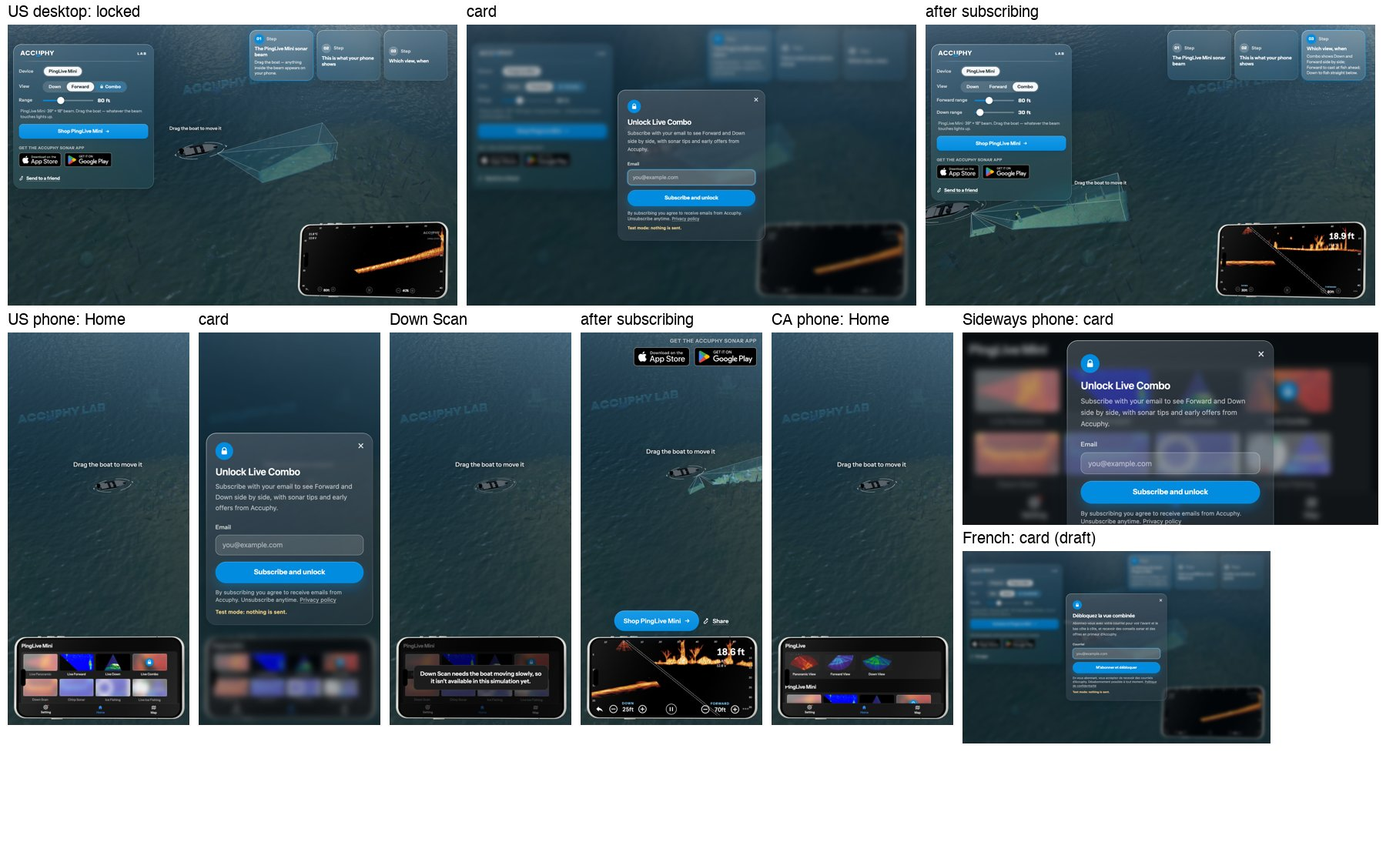
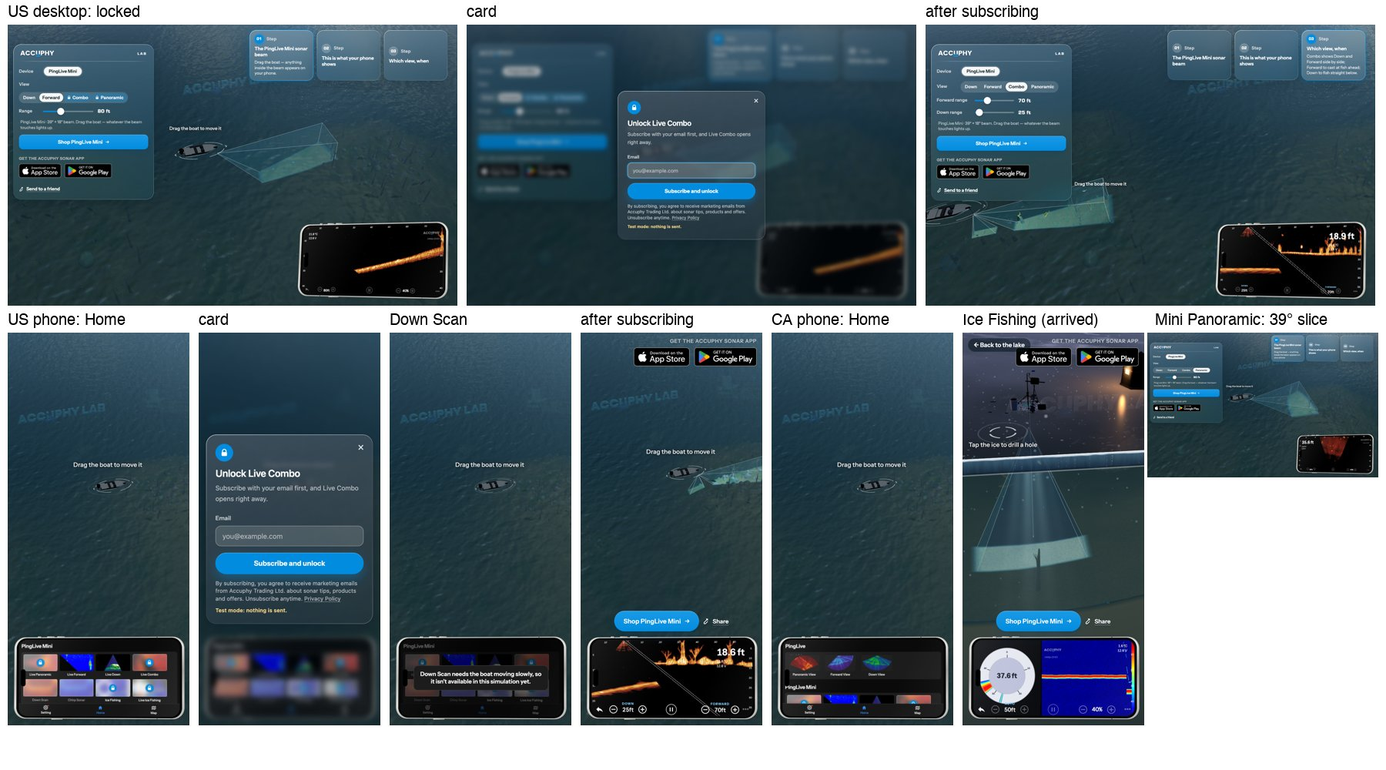
Subscribing opens every locked view: Mini Panoramic, Ice Fishing and Live Ice via the ice page and back; Klaviyo draft wording and properties (#191)

diff --git a/src/experiments/2026-09-23-sonar-lake-3d/index.jsx b/src/experiments/2026-09-23-sonar-lake-3d/index.jsx
@@ -10,9 +10,9 @@ import { COLORMAP_NAMES } from './colormaps'
 import SonarChrome from './SonarChrome'
 import { screenLayout } from './SonarScreen'
 import UnlockCard, { LockIcon } from './UnlockCard'
-import AppHome from './home/AppHome' // the app's Home (view selection) page inside the phone, phones only (2026-10-16)
+import AppHome, { isLocked } from './home/AppHome' // the app's Home (view selection) page inside the phone, phones only (2026-10-16)
 import { isSignedUp } from './signup'
-import { labEvent, miniOnly, PRODUCT, sentEvents } from './embed'
+import { iceUrl, labEvent, miniOnly, PRODUCT, sentEvents } from './embed'
 import ShopButton from './ShopButton' // the one link to the store (X-6L, 2026-10-25; placement B, Jason)
 import { t } from './i18n' // every visitor-visible string, English or French (?lang=fr; X-6L-fr)
 import ShareButton from './ShareButton'
@@ -24,6 +24,7 @@ import { panoHalfWidth } from './sonarMarks'
 const BIG_PHONE = import.meta.env.DEV && window.location.search.includes('bigphone')
 // Build variant (Jason 2026-10-16): VITE_DEVICES='PLM' makes a PingLive Mini-only page — no device switch, the
 // Mini is the device, the step presets use its views. Unset: both devices (the default Lab).
+const LOCKED_NAME = { combo: 'tile_live_combo', panoramic: 'tile_live_panoramic', ice: 'tile_ice' }
 const ONLY_ENV = import.meta.env.VITE_DEVICES === 'PLM' ? 'PLM' : null
 // Scene (Jason 2026-10-16: 做一个冰钓的版本): 'lake' = the boat; 'ice' = the frozen lake with the PingLive Mini in an auger hole
 // (IceCamp.jsx). The ice page is its own gallery entry (2026-10-16-sonar-ice-3d) and a build variant, VITE_SCENE=ice.
@@ -71,7 +72,7 @@ export default function SonarLake3D({ scene: sceneProp, lab }) {
   const ONLY = ICE || miniOnly() ? 'PLM' : ONLY_ENV // on the ice the Mini is the device: the app's ice views are the Mini's; the store's US market too (#190)
   const SHOWN_DEVICES = ONLY ? [DEVICES[ONLY]] : Object.values(DEVICES)
   const [deviceId, setDeviceId] = useState(ONLY || 'PL')
-  const [mode, setMode] = useState(ICE ? 'liveice' : 'forward')
+  const [mode, setMode] = useState(ICE ? (/[?&]view=ice\b/.test(window.location.search) && isSignedUp() ? 'ice' : 'liveice') : 'forward') // ?view=ice: the Ice Fishing tile from the lake (#191)
   const [view, setView] = useState(ICE ? iceParams().view : 'top') // ice page cameras: top / under the ice / section (docs/ice-relationship-study.md)
   // the ice page: the step cards stack under the control panel, so the ice band across the top stays open for taps
   const panelRef = useRef(null)
@@ -88,8 +89,8 @@ export default function SonarLake3D({ scene: sceneProp, lab }) {
   const devNum = (k) => (import.meta.env.DEV ? +((new RegExp(`[?&]${k}=([\\d.]+)`).exec(window.location.search) || [])[1] || NaN) : NaN)
   const [depthFt, setDepthFt] = useState(Number.isFinite(devNum('depth')) ? devNum('depth') : 70) // depth range (PL Forward; every PLM view) — driven by AUTO below
   const [autoDepth, setAutoDepth] = useState(!Number.isFinite(devNum('depth'))) // off only when the dev Depth slider is touched (or ?depth=)
-  const [unlock, setUnlock] = useState(null)       // the subscribe card is open: { d, source } of the Combo pick it holds (#191)
-  const [unlocked, setUnlocked] = useState(isSignedUp) // Combo opens after subscribing, remembered on this device (signup.js)
+  const [unlock, setUnlock] = useState(null)       // the subscribe card is open: { d, m, name, source } of the pick it holds, or { ice } (#191)
+  const [unlocked, setUnlocked] = useState(isSignedUp) // the locked views open after subscribing, remembered on this device (signup.js)
   // In-app browsers (BF funnel handoff 2026-10-26, item 3). (1) The 3D mounts one frame AFTER the page so the static cover
   // (#lab-cover, share build) is on screen while the scene builds; the cover fades after the lake's first frames.
   // (2) A lost WebGL context (Meta's browser drops it when memory is short) shows a tap-to-reload card instead of a frozen
@@ -164,7 +165,7 @@ export default function SonarLake3D({ scene: sceneProp, lab }) {
   useEffect(() => { document.body.classList.toggle('lab-land', land); return () => document.body.classList.remove('lab-land') }, [land])
 
   const device = DEVICES[deviceId]
-  const modes = ICE ? ICE_MODES : device.modes
+  const modes = ICE ? [...ICE_MODES, 'ice'] : deviceId === 'PLM' ? [...device.modes, 'panoramic'] : device.modes // the Mini's Panoramic: behind the subscribe card (#191)
   const maxFt = device.maxRangeFt
   useEffect(() => {
     if (!modes.includes(mode)) setMode(ICE ? 'liveice' : 'down')
@@ -277,13 +278,17 @@ export default function SonarLake3D({ scene: sceneProp, lab }) {
   // button, guide step), never for the default view on load (#139); `source` says where the pick came from
   const showView = (d, m, source) => { setDeviceId(d); setMode(m); labEvent('view', { view: m, product: PRODUCT[d] || PRODUCT.PLM, source }) }
   // every pick passes here, so nothing reaches Combo before subscribing (#191): the card opens and the view stays as it was
-  const pickView = (d, m, source) => {
-    if (m === 'combo' && !unlocked) { setUnlock({ d, source }); return false }
+  const pickView = (d, m, source, name) => {
+    if (isLocked(d, m) && !unlocked) { setUnlock({ d, m, source, name: name || t(LOCKED_NAME[m]) }); return false }
     showView(d, m, source); return true
   }
+  const goIce = (view) => { window.location.href = iceUrl(view) }
+  const onIce = (view, name) => { if (unlocked) goIce(view); else setUnlock({ d: 'PLM', m: view, ice: true, source: 'home', name }) }
   const onUnlocked = () => {
-    const { d, source } = unlock
-    setUnlocked(true); setUnlock(null); showView(d, 'combo', source)
+    const { d, m, ice, source } = unlock
+    setUnlocked(true); setUnlock(null)
+    if (ice) { goIce(m); return }
+    showView(d, m, source)
     if (source === 'home') { setHome(false); setStarted(true) }
   }
 
@@ -347,6 +352,7 @@ export default function SonarLake3D({ scene: sceneProp, lab }) {
       <div className="absolute inset-0 touch-none">
         {mount3d && !glLost && <LakeScene key={glKey} state={state} sonarRect={sonarRect} paused={paused} scene={scene} />}
       </div>
+      {ICE && /[?&]from=lake\b/.test(window.location.search) && <button type="button" className="ac-back-lake" onClick={() => window.history.back()}>← {t('back_to_lake')}</button>}
       {/* the store badges on phones (Jason 2026-10-28: store style, decision #185): top left over the lake, 40 px (Apple's minimum) */}
       {phone && !land && started && !home && <AppBadges height={40} className="absolute z-20 items-end" style={{ right: 12, top: 'calc(12px + env(safe-area-inset-top))' }} />}
       {glLost && (
@@ -367,10 +373,10 @@ export default function SonarLake3D({ scene: sceneProp, lab }) {
         </div>
         <div className="ac-divider" />
         <Row label={t('device')}>
-          <div className="ac-seg">{SHOWN_DEVICES.map((d) => <button key={d.id} className={`ac-btn ${deviceId === d.id ? 'is-active' : ''}`} onClick={() => pickView(d.id, mode, 'panel')}>{d.name}</button>)}</div>
+          <div className="ac-seg">{SHOWN_DEVICES.map((d) => <button key={d.id} className={`ac-btn ${deviceId === d.id ? 'is-active' : ''}`} onClick={() => pickView(d.id, isLocked(d.id, mode) && !unlocked ? 'down' : mode, 'panel')}>{d.name}</button>)}</div>
         </Row>
         <Row label={t('view')}>
-          <div className="ac-seg">{modes.map((m) => { const locked = m === 'combo' && !unlocked; return <button key={m} className={`ac-btn ${mode === m ? 'is-active' : ''} ${locked ? 'is-locked' : ''}`} aria-label={locked ? t('unlock_locked') : undefined} onClick={() => pickView(deviceId, m, 'panel')}>{locked && <LockIcon />}{t('mode_' + m)}</button> })}</div>
+          <div className={`ac-seg ${modes.length > 3 ? 'ac-seg-tight' : ''}`}>{modes.map((m) => { const locked = isLocked(deviceId, m) && !unlocked; return <button key={m} className={`ac-btn ${mode === m ? 'is-active' : ''} ${locked ? 'is-locked' : ''}`} aria-label={locked ? t('unlock_locked', { view: t(LOCKED_NAME[m]) }) : undefined} onClick={() => pickView(deviceId, m, 'panel')}>{locked && <LockIcon />}{t('mode_' + m)}</button> })}</div>
         </Row>
         {ICE && (
           <Row label={t('camera')}>
@@ -454,7 +460,7 @@ export default function SonarLake3D({ scene: sceneProp, lab }) {
               phone is the device), or, with the lake enlarged, a small sonar box top-right that taps back */}
           <div ref={(el) => { sonarRect.current.el = el }} style={land ? (lakeBig ? { ...LAND_SMALL, height: `${(34 / landAspect).toFixed(2)}vw` } : LAND_FULL) : { position: 'absolute', inset: '2.6%', borderRadius: '5.4% / 11.3%', containerType: 'size', overflow: 'hidden' }}>
             <SonarChrome layout={layout} deviceId={deviceId} mode={mode} rangeFt={effRangeFt} depthFt={depthFt} imperial={imperial} gain={gain} autoDepth={autoDepth} autoRange={downLike} onRange={phone ? stepRange : undefined} combo={combo ? { fwdFt: comboFwd, downFt: comboDown, onFwd: phone ? stepComboFwd : undefined, onDown: phone ? stepComboDown : undefined, fwdLabel: t('combo_fwd'), downLabel: t('combo_down') } : undefined} onHome={phone ? () => { setHome(true); setLakeBig(false) } : undefined} phone={phone && !land} noMark={land && !lakeBig && !home && started} waterTempC={ICE ? 1.6 : 21.8} app={appCtl} onLocked={phone ? undefined : onLocked} depthRef={(el) => { state.current.depthEl = el }} />
-            {phone && home && <AppHome ice={ICE} devices={SHOWN_DEVICES} deviceId={started ? deviceId : null} mode={started ? mode : null} comboLocked={!unlocked} onPick={(d, m) => { if (pickView(d, m, 'home')) { setHome(false); setStarted(true) } }} />}
+            {phone && home && <AppHome ice={ICE} devices={SHOWN_DEVICES} deviceId={started ? deviceId : null} mode={started ? mode : null} locked={!unlocked} onIce={onIce} onPick={(d, m, name) => { if (pickView(d, m, 'home', name)) { setHome(false); setStarted(true) } }} />}
             {/* sideways: the lake inset (drawn by SonarScreen.jsx into this button's rectangle); a tap swaps lake and sonar.
                 Top-right, clear of the rulers and the depth-range −/+; Combo keeps its readout top-right, so there top-left */}
             {land && !lakeBig && !home && started && (
@@ -526,7 +532,7 @@ export default function SonarLake3D({ scene: sceneProp, lab }) {
         <pre ref={(el) => { state.current.debugEl = el }} className="pointer-events-none absolute left-2 top-1/2 rounded bg-black/60 p-1 text-[10px] text-lime-300" />
       )}
     </main>
-    {unlock && <UnlockCard product={PRODUCT[unlock.d] || PRODUCT.PLM} view="combo" onClose={() => setUnlock(null)} onDone={onUnlocked} />}
+    {unlock && <UnlockCard name={unlock.name} product={PRODUCT[unlock.d] || PRODUCT.PLM} view={unlock.m} onClose={() => setUnlock(null)} onDone={onUnlocked} />}
     </>
   )
 }

diff --git a/src/experiments/2026-09-23-sonar-lake-3d/home/AppHome.jsx b/src/experiments/2026-09-23-sonar-lake-3d/home/AppHome.jsx
@@ -32,19 +32,20 @@ const SECTIONS = {
     { mode: 'down', label: t('tile_down'), img: plDown, fan: true },
   ] },
   PLM: { title: 'PingLive Mini', tiles: [
-    { label: t('tile_live_panoramic'), img: plmPanoramic },
+    { id: 'pano', label: t('tile_live_panoramic'), img: plmPanoramic },
     { mode: 'forward', label: t('tile_live_forward'), img: plmForward },
     { mode: 'down', label: t('tile_live_down'), img: plmDown },
     { mode: 'combo', label: t('tile_live_combo'), img: plmCombo }, // in the Mini's row, not a separate Combo section (Jason 2026-10-23: 不要单独再放一栏了 这样人家搞不懂)
     { label: t('tile_downscan'), img: plmDownscan, moving: true }, // needs a slowly moving boat, not simulated (#191)
     { label: t('tile_chirp'), img: plmChirp, moving: true },
-    { label: t('tile_ice'), img: plmIceFishing }, // frosted: Jason 2026-10-23 keeps only Live Ice Fishing, Live Forward, Live Down, Live Combo
+    { id: 'ice', label: t('tile_ice'), img: plmIceFishing }, // frosted: Jason 2026-10-23 keeps only Live Ice Fishing, Live Forward, Live Down, Live Combo
     { id: 'liveice', label: t('tile_live_ice'), img: plmLiveIce }, // frosted on the lake page (its link to the ice page never worked in public builds; Jason 2026-10-24: 去掉); a view on the ice page
   ] },
 }
 
 const BLUE = '#2f8fff'
-const unlockLabel = t('unlock_locked')
+export const isLocked = (d, m) => m === 'combo' || m === 'ice' || (d === 'PLM' && m === 'panoramic') // the views behind the subscribe card (#191)
+const unlockLabel = (view) => t('unlock_locked', { view })
 const movingText = (view) => t('na_moving', { view })
 function Icon({ name, active }) {
   const c = active ? BLUE : '#fff'
@@ -63,11 +64,17 @@ function Tab({ label, icon, active }) {
   )
 }
 
-export default function AppHome({ devices, deviceId, mode, onPick, ice = false, comboLocked = false }) {
+export default function AppHome({ devices, deviceId, mode, onPick, onIce, ice = false, locked: lockOn = false }) {
   // on the ice page the back button opens this Home too (2026-10-23): Live Ice Fishing is a view of this page there,
   // not a link to it
   const sections = devices.map((d) => ({ id: d.id, ...SECTIONS[d.id] })).filter((s) => s.tiles)
-    .map((sec) => (ice ? { ...sec, tiles: sec.tiles.map((tile) => (tile.id === 'liveice' ? { ...tile, mode: 'liveice' } : tile)) } : sec))
+    .map((sec) => ({ ...sec, tiles: sec.tiles.map((tile) => {
+      // all unlocked by subscribing (#191, Jason 2026-10-30: "订阅就打开"); on the lake the two ice tiles lead to the ice page
+      if (tile.id === 'pano') return ice ? tile : { ...tile, mode: 'panoramic' }
+      if (tile.id === 'ice') return ice ? { ...tile, mode: 'ice' } : { ...tile, toIce: 'ice' }
+      if (tile.id === 'liveice') return ice ? { ...tile, mode: 'liveice' } : { ...tile, toIce: 'liveice' }
+      return tile
+    }) }))
   const [toast, setToast] = useState('')
   const [moving, setMoving] = useState('') // the tile's name while its big notice is up; a tap closes it (#191)
   const toastT = useRef(0)
@@ -83,12 +90,12 @@ export default function AppHome({ devices, deviceId, mode, onPick, ice = false, 
             <div style={{ background: '#1c1c1c', borderRadius: '3cqh', padding: '3cqh', display: 'flex', flexWrap: 'wrap', gap: '3cqh' }}>
               {sec.tiles.map((t) => {
                 const dev = t.device || sec.id
-                const live = !!t.mode
+                const live = !!t.mode || !!t.toIce
                 const active = live && dev === deviceId && t.mode === mode
-                const locked = comboLocked && t.mode === 'combo' // frosted with a lock: a tap opens the subscribe card (#191)
-                const onClick = live ? () => onPick(dev, t.mode) : t.moving ? () => setMoving(t.label) : notAvailable
+                const locked = lockOn && (t.toIce || (live && isLocked(dev, t.mode))) // frosted with a lock: a tap opens the subscribe card (#191)
+                const onClick = t.toIce ? () => onIce(t.toIce, t.label) : live ? () => onPick(dev, t.mode, t.label) : t.moving ? () => setMoving(t.label) : notAvailable
                 return (
-                  <button key={t.label} type="button" className={`ph-tile ${live ? '' : 'is-off'}`} onClick={onClick} aria-label={locked ? unlockLabel : t.label} aria-current={active || undefined} aria-disabled={live ? undefined : 'true'} style={{ flex: '0 0 44cqh', textAlign: 'center' }}>
+                  <button key={t.label} type="button" className={`ph-tile ${live ? '' : 'is-off'}`} onClick={onClick} aria-label={locked ? unlockLabel(t.label) : t.label} aria-current={active || undefined} aria-disabled={live ? undefined : 'true'} style={{ flex: '0 0 44cqh', textAlign: 'center' }}>
                     <span style={{ position: 'relative', display: 'block', borderRadius: t.fan ? 0 : '1.8cqh', overflow: 'hidden', boxShadow: active && !t.fan ? `0 0 0 0.6cqh ${BLUE}` : 'none' }}>
                       <img src={t.img} alt="" draggable={false} loading="lazy" decoding="async" style={{ display: 'block', width: '100%', height: '22cqh', objectFit: t.fan ? 'contain' : 'cover' }} />
                       {(!live || locked) && <span className="ph-frost" aria-hidden="true" />}

diff --git a/src/experiments/2026-09-23-sonar-lake-3d/UnlockCard.jsx b/src/experiments/2026-09-23-sonar-lake-3d/UnlockCard.jsx
@@ -1,19 +1,21 @@
-// The subscribe card that unlocks Live Combo (#191; Jason 2026-10-30: "把live combo给blur了吧 … 订阅以后可以全部给看"). Replaces the
+// The subscribe card that unlocks the locked views (#191; Jason 2026-10-30: "把live combo给blur了吧 … 订阅以后可以全部给看"). Replaces the
 // old sign-up gate (2026-09-24): this card can be closed (×, Esc, a tap outside) and the visitor stays on the view they had; the
-// lake keeps running behind it. Success opens Combo at once; this device remembers it (signup.js).
+// lake keeps running behind it. Success says so for a moment, then opens the view; this device remembers it (signup.js).
 import { useEffect, useRef, useState } from 'react'
 import { motion } from 'framer-motion'
 import { submitSignup, isEmail, signupTestMode } from './signup'
 import { labEvent } from './embed'
-import { t } from './i18n'
+import { t, LANG } from './i18n'
 
 export function LockIcon({ size = 11, style }) {
   return <svg viewBox="0 0 16 16" width={size} height={size} aria-hidden="true" style={style}><path d="M4.5 7V5a3.5 3.5 0 0 1 7 0v2" fill="none" stroke="currentColor" strokeWidth="1.7" strokeLinecap="round" /><rect x="2.8" y="6.8" width="10.4" height="7.6" rx="1.8" fill="currentColor" /></svg>
 }
 
-export default function UnlockCard({ product, view, onClose, onDone }) {
+const DONE_MS = 1100
+
+export default function UnlockCard({ name, product, view, onClose, onDone }) {
   const [email, setEmail] = useState('')
-  const [status, setStatus] = useState('idle') // idle | sending | error
+  const [status, setStatus] = useState('idle') // idle | sending | error | done
   const [error, setError] = useState('')
   const input = useRef(null)
   useEffect(() => {
@@ -28,7 +30,7 @@ export default function UnlockCard({ product, view, onClose, onDone }) {
     e.preventDefault()
     if (!isEmail(email)) { setStatus('error'); setError(t('unlock_err_email')); return }
     setStatus('sending'); setError('')
-    try { await submitSignup({ email }); labEvent('signup', { source: 'combo', product, view }, { once: true }) /* never the email: the iframe message goes to '*' */; onDone() } catch (err) { setStatus('error'); setError(t(err.message === 'not_ready' ? 'unlock_err_closed' : 'unlock_err_send')) }
+    try { await submitSignup({ email, language: LANG }); labEvent('signup', { source: 'unlock', product, view }, { once: true }) /* never the email: the iframe message goes to '*' */; setStatus('done'); setTimeout(onDone, DONE_MS) } catch (err) { setStatus('error'); setError(t(err.message === 'not_ready' ? 'unlock_err_closed' : 'unlock_err_send')) }
   }
 
   return (
@@ -37,8 +39,9 @@ export default function UnlockCard({ product, view, onClose, onDone }) {
         className="ac-panel relative m-auto w-full max-w-[420px] p-5 text-white sm:p-7">
         <button type="button" className="ac-unlock-x" aria-label={t('share_close')} onClick={onClose}>×</button>
         <div className="ac-unlock-badge"><LockIcon size={18} /></div>
-        <h2 id="unlock-title" className="mt-3 pr-6 text-[21px] font-semibold leading-tight tracking-[-0.01em]">{t('unlock_title')}</h2>
-        <p className="ac-soft mt-2 text-[14px] leading-relaxed">{t('unlock_text')}</p>
+        <h2 id="unlock-title" className="mt-3 pr-6 text-[21px] font-semibold leading-tight tracking-[-0.01em]">{status === 'done' ? t('unlock_done', { view: name }) : t('unlock_title', { view: name })}</h2>
+        {status !== 'done' && <>
+        <p className="ac-soft mt-2 text-[14px] leading-relaxed">{t('unlock_text', { view: name })}</p>
         <label className="mt-4 block">
           <span className="ac-label">{t('unlock_email')}</span>
           <input ref={input} type="email" inputMode="email" autoComplete="email" required value={email} onChange={(e) => { setEmail(e.target.value); if (status === 'error') setStatus('idle') }}
@@ -51,6 +54,7 @@ export default function UnlockCard({ product, view, onClose, onDone }) {
           <a href="https://shop.accuphy.com/policies/privacy-policy" target="_blank" rel="noreferrer" className="underline decoration-white/40 underline-offset-2 hover:decoration-white">{t('unlock_privacy')}</a>
         </p>
         {signupTestMode() && <p className="mt-2 text-[11.5px] font-semibold text-[#ffd98a]">Test mode: nothing is sent.</p>}
+        </>}
       </motion.form>
     </div>
   )

diff --git a/src/experiments/2026-09-23-sonar-lake-3d/i18n.js b/src/experiments/2026-09-23-sonar-lake-3d/i18n.js
@@ -89,18 +89,20 @@ const S = {
   tab_setting: { en: 'Setting', fr: 'Paramètres' },
   tab_home: { en: 'Home', fr: 'Accueil' },
   tab_map: { en: 'Map', fr: 'Map' },
-  not_available: { en: 'Not available in this simulation yet.', fr: 'Pas encore disponible dans cette simulation.' }, // FR: for the website's review (#191)
+  not_available: { en: 'Not available in this simulation yet.', fr: 'Pas encore disponible dans cette simulation.' }, // FR: for the website's review (#191); only Live Panoramic on the ice page now
   // {view} is the tile's name (#191, Jason 2026-10-30)
   na_moving: { en: '{view} needs the boat moving slowly, so it isn’t available in this simulation yet.', fr: '{view} exige que le bateau avance lentement : cette vue n’est donc pas encore disponible dans cette simulation.' },
-  // the subscribe card (#191). unlock_consent is a PLACEHOLDER: Klaviyo is settling the wording. All FR here: drafts for the website's review
-  unlock_title: { en: 'Unlock Live Combo', fr: 'Débloquez la vue combinée' },
-  unlock_locked: { en: 'Combo, locked: subscribe to unlock', fr: 'Vue combinée verrouillée : abonnez-vous pour la débloquer' },
-  unlock_text: { en: 'Subscribe with your email to see Forward and Down side by side, with sonar tips and early offers from Accuphy.', fr: 'Abonnez-vous avec votre courriel pour voir l’avant et le bas côte à côte, et recevoir des conseils sonar et des offres en primeur d’Accuphy.' },
+  // the subscribe card (#191). {view} is the tile's name. unlock_consent, unlock_done: Klaviyo HQ's draft, Jason has not seen it. All FR here: drafts for the website's review
+  unlock_title: { en: 'Unlock {view}', fr: 'Débloquez : {view}' },
+  unlock_locked: { en: '{view}, locked: subscribe to unlock', fr: '{view}, verrouillée : abonnez-vous pour débloquer' },
+  unlock_text: { en: 'Subscribe with your email first, and {view} opens right away.', fr: 'Abonnez-vous d’abord avec votre courriel, et {view} s’ouvre aussitôt.' },
+  unlock_done: { en: 'You’re in. {view} is unlocked.', fr: 'C’est fait. {view} est débloquée.' },
+  back_to_lake: { en: 'Back to the lake', fr: 'Retour au lac' },
   unlock_email: { en: 'Email', fr: 'Courriel' },
   unlock_cta: { en: 'Subscribe and unlock', fr: 'M’abonner et débloquer' },
   unlock_sending: { en: 'Subscribing…', fr: 'Abonnement en cours…' },
-  unlock_consent: { en: 'By subscribing you agree to receive emails from Accuphy. Unsubscribe anytime.', fr: 'En vous abonnant, vous acceptez de recevoir des courriels d’Accuphy. Désabonnement possible à tout moment.' },
-  unlock_privacy: { en: 'Privacy policy', fr: 'Politique de confidentialité' },
+  unlock_consent: { en: 'By subscribing, you agree to receive marketing emails from Accuphy Trading Ltd. about sonar tips, products and offers. Unsubscribe anytime.', fr: 'En vous abonnant, vous acceptez de recevoir des courriels de marketing d’Accuphy Trading Ltd. sur des conseils sonar, des produits et des offres. Désabonnement possible à tout moment.' },
+  unlock_privacy: { en: 'Privacy Policy', fr: 'Politique de confidentialité' },
   unlock_err_email: { en: 'Please enter a valid email address.', fr: 'Veuillez entrer une adresse courriel valide.' },
   unlock_err_send: { en: 'Something went wrong. Please try again.', fr: 'Une erreur est survenue. Veuillez réessayer.' },
   unlock_err_closed: { en: 'Subscribing isn’t open yet. Please try again later.', fr: 'L’abonnement n’est pas encore ouvert. Veuillez réessayer plus tard.' },

diff --git a/src/experiments/2026-09-23-sonar-lake-3d/signup.js b/src/experiments/2026-09-23-sonar-lake-3d/signup.js
@@ -11,7 +11,7 @@ export const KLAVIYO = {
   revision: '2026-07-15', // Klaviyo API revision (each is supported ~2 years; bump when Klaviyo retires it)
 }
 
-// The consent sent with each sign-up: change it here when Klaviyo settles the wording and the consent type (#191).
+// The consent sent with each sign-up (#191). SUBSCRIBED is the only value Klaviyo's client endpoint takes.
 const CONSENT = 'SUBSCRIBED'
 
 // listId must be W24Qdc before lab.accuphy.ca goes live with the Combo lock (#191, docs/versions.md). Until it is set nothing is
@@ -33,7 +33,7 @@ function rememberSignedUp() {
 
 export const isEmail = (s) => /^[^\s@]+@[^\s@]+\.[^\s@]{2,}$/.test(String(s).trim())
 
-export async function submitSignup({ email, source = 'Accuphy Lab' }) {
+export async function submitSignup({ email, language = 'en', source = 'Accuphy Lab' }) {
   const addr = String(email).trim()
   if (!isEmail(addr)) throw new Error('bad_email')
   if (!signupReady() && onLiveHost()) throw new Error('not_ready')
@@ -48,7 +48,7 @@ export async function submitSignup({ email, source = 'Accuphy Lab' }) {
             custom_source: source,
             profile: { data: { type: 'profile', attributes: {
               email: addr,
-              properties: { signup_page: 'accuphy-lab' },
+              properties: { signup_page: 'accuphy-lab', signup_channel: 'lab_unlock', signup_language: language },
               subscriptions: { email: { marketing: { consent: CONSENT } } }, // the list's single/double opt-in setting still applies
             } } },
           },

diff --git a/src/index.css b/src/index.css
@@ -48,6 +48,8 @@
 .ac-btn:hover { background: rgba(255,255,255,0.12); }
 .ac-btn.is-locked { display: inline-flex; align-items: center; gap: 5px; color: #fff; background: rgba(2,140,223,0.34); }
 .ac-btn.is-locked:hover { background: rgba(2,140,223,0.55); }
+.ac-seg-tight .ac-btn { padding: 6px 9px; }
+.ac-back-lake { position: absolute; z-index: 30; left: 12px; top: calc(12px + env(safe-area-inset-top)); padding: 8px 12px; border: 0; border-radius: 999px; font: 600 13px/1 'Instrument Sans', system-ui, sans-serif; color: #fff; background: rgba(3,18,26,0.55); cursor: pointer; }
 .ac-unlock-x { position: absolute; top: 8px; right: 8px; width: 36px; height: 36px; border: 0; border-radius: 50%; background: none; color: rgba(255,255,255,0.85); font-size: 22px; line-height: 1; cursor: pointer; }
 .ac-unlock-x:hover { background: rgba(255,255,255,0.14); }
 .ac-unlock-badge { width: 38px; height: 38px; display: flex; align-items: center; justify-content: center; border-radius: 50%; color: #fff; background: var(--accuphy-blue); }

diff --git a/src/experiments/2026-09-23-sonar-lake-3d/embed.js b/src/experiments/2026-09-23-sonar-lake-3d/embed.js
@@ -97,6 +97,16 @@ export function inStore() {
 // big PingLive is not sold there until 2027-02 (website #226). Inside the store only — the Lab opened on its own never changes.
 export function miniOnly() { return inStore() && shareMarket() === 'us' }
 
+// The ice page from the lake (#191): same address parameters (market, shop, lang), inside the iframe too; `from=lake` shows the way back.
+// Theme-mounted there is no /ice/ on the store: the same page reloads with scene=ice.
+export function iceUrl(view) {
+  const u = new URL(window.location.href)
+  if (isEmbedded() || !inStore()) u.pathname = u.pathname.replace(/(mini|ice)\/?(index\.html)?$/, '').replace(/\/?$/, '/') + 'ice/'
+  else u.searchParams.set('scene', 'ice')
+  u.searchParams.set('from', 'lake'); u.searchParams.set('view', view)
+  return u.href
+}
+
 export function shopUrl(deviceId) {
   const product = PRODUCT[deviceId] || PRODUCT.PLM
   const root = shopRoot()

diff --git a/docs/decisions.md b/docs/decisions.md
@@ -3364,14 +3364,27 @@ Numbered log. Newest at the bottom.
      - **Guide:** step 1 "The {device} sonar beam" / "Drag the boat — anything inside the beam appears on your phone."; step 2 "This is what
        {device} sees, live on your phone in the Accuphy Sonar app: the bottom, timber and fish.", the name follows the device on screen. The ice
        page's steps had no "curtain".
-     - **Placeholders:** `unlock_consent` waits for Klaviyo. French of the card, s1, s2, s3_text_locked, not_available and na_moving are
+     - **Placeholders:** French of the card, s1, s2, s3_text_locked, not_available and na_moving are
        drafts for the website's review. The card avoids the word "PingLive" alone, for the US (#190).
      - **Ads:** no URL goes straight into Combo. `scripts/dev/ads/v3/film3.mjs` clicks the Combo button on the frozen checkout
        `lake-mini-479ca21`, so it is unaffected; a new checkout would need localStorage `accuphy_sonar_signup_v1=1`.
      - **For the website:** in the store, Klaviyo's 20 s form can come up over the card.
-     - **Checked** on built pages in Chromium behind a stand-in store page, 0 failures, 0 console errors: desktop 1280×800 for us, ca,
+     - **Widened the same day** (Jason in Lab HQ: "订阅就打开"): Live Panoramic, Ice Fishing and Live Ice Fishing also sit behind the card (`isLocked` in `home/AppHome.jsx`). Their
+       names follow the view on the card and in "You're in. {view} is unlocked." (shown 1.1 s). `signup` now carries `source: 'unlock'` and `view` = the view unlocked.
+       - **Ice tiles:** the lake's two tiles go to the ice page (`embed.js iceUrl`: same address parameters, inside the iframe too, a test link's sub-path kept;
+         theme-mounted, the page reloads with `scene=ice`), with `from=lake`, which shows "← Back to the lake" (history back). `view=ice` opens the 2D Ice Fishing view
+         (it was in the engine, not offered, #94 note), now also a locked panel pill and a locked tile on the ice page; subscribing is the same localStorage on the same
+         origin, so the ice page knows. Opened directly, the ice page's Live Ice view stays free. Live Panoramic on the ice page keeps "Not available in this simulation yet."
+         The desktop has no ice tiles on the lake, so only phones reach the ice page this way.
+       - **Mini Panoramic:** a locked fourth pill and the Home tile; it uses the existing flat fan at the Mini's own 39°, no change to imaging or the lake. It is a 39° slice,
+         not a wide scan like the big PingLive's; whether that is the app's Live Panoramic is for Jason to look at.
+     - **Klaviyo (HQ's draft; Jason has not seen it):** consent text with Accuphy Trading Ltd., link to shop.accuphy.com/policies/privacy-policy, nothing pre-ticked. Sent as
+       `custom_source` Accuphy Lab, `properties` signup_channel=lab_unlock and signup_language. Checked against Klaviyo's Create Client Subscription reference (revision 2026-10-15):
+       the placement matches, and SUBSCRIBED is the only allowed consent value. W24Qdc is single opt-in. A real send has not run: `listId` stays null.
+     - **Checked** on built pages in Chromium behind a stand-in store page, 0 failures of 144, 0 console errors: ice tiles in both directions at market=us (card, line, /ice/ with
+       params, ice page knows, Combo opens there, back, direct when subscribed), a second device with fresh storage (locked again, same email opens); desktop 1280×800 for us, ca,
        /mini/, fr (lock, card, Esc, ×, outside, bad email, step 3, subscribe → Combo, remembered after reload); phone 390×844 for us, ca,
        /mini/, /ice/ and sideways 844×390 (tile lock, card, close back to Home, both notices last past 2 s and close on a tap, neutral
        hint, subscribe → Combo); /ice/ desktop; theme-mounted US. `signup-guard-test.mjs` 7/7, `shop-url-test.mjs` 26/26,
-       `share-url-test.mjs` 15/15. Sheet `docs/2026-10-30-combo-unlock.jpg`. Sideways, the card is taller than the screen and scrolls.
+       `share-url-test.mjs` 15/15. Sheet `docs/2026-10-30-combo-unlock.jpg`. Sideways, the card is taller than the screen and scrolls. The theme-mounted `scene=ice` jump was not run.
        **Not run:** the device list in the research doc (Facebook / Instagram browsers, Safari, real phones), a real Klaviyo send.

diff --git a/docs/versions.md b/docs/versions.md
@@ -7,7 +7,7 @@ with the source commit it was built from, so anyone can tell which version a lin
 
 `KLAVIYO.listId` in `src/experiments/2026-09-23-sonar-lake-3d/signup.js` must be **W24Qdc** first. Left empty, the live card refuses every
 sign-up and Combo stays shut for everyone (no fake success). Test links show "Test mode: nothing is sent." The consent wording
-(`unlock_consent` in i18n.js, `CONSENT` in signup.js) also waits for Klaviyo.
+(`unlock_consent` in i18n.js) is Klaviyo HQ's draft and waits for Jason.
 
 ## Where the Lab lives (inventory, Lab HQ 2026-10-27)
 
